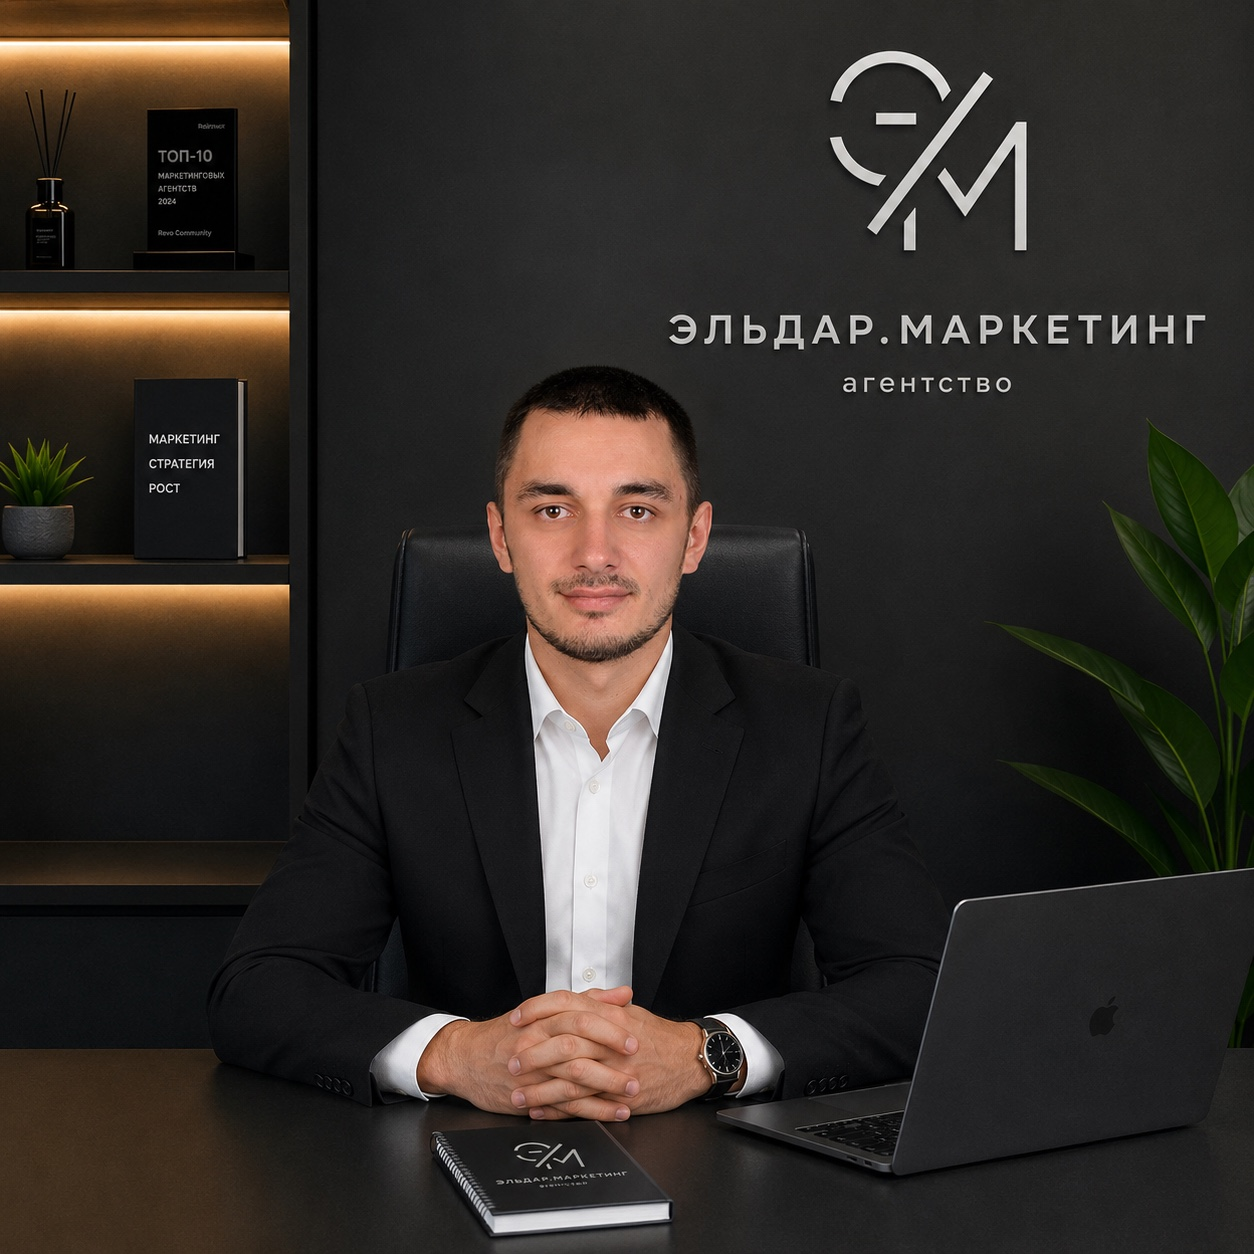
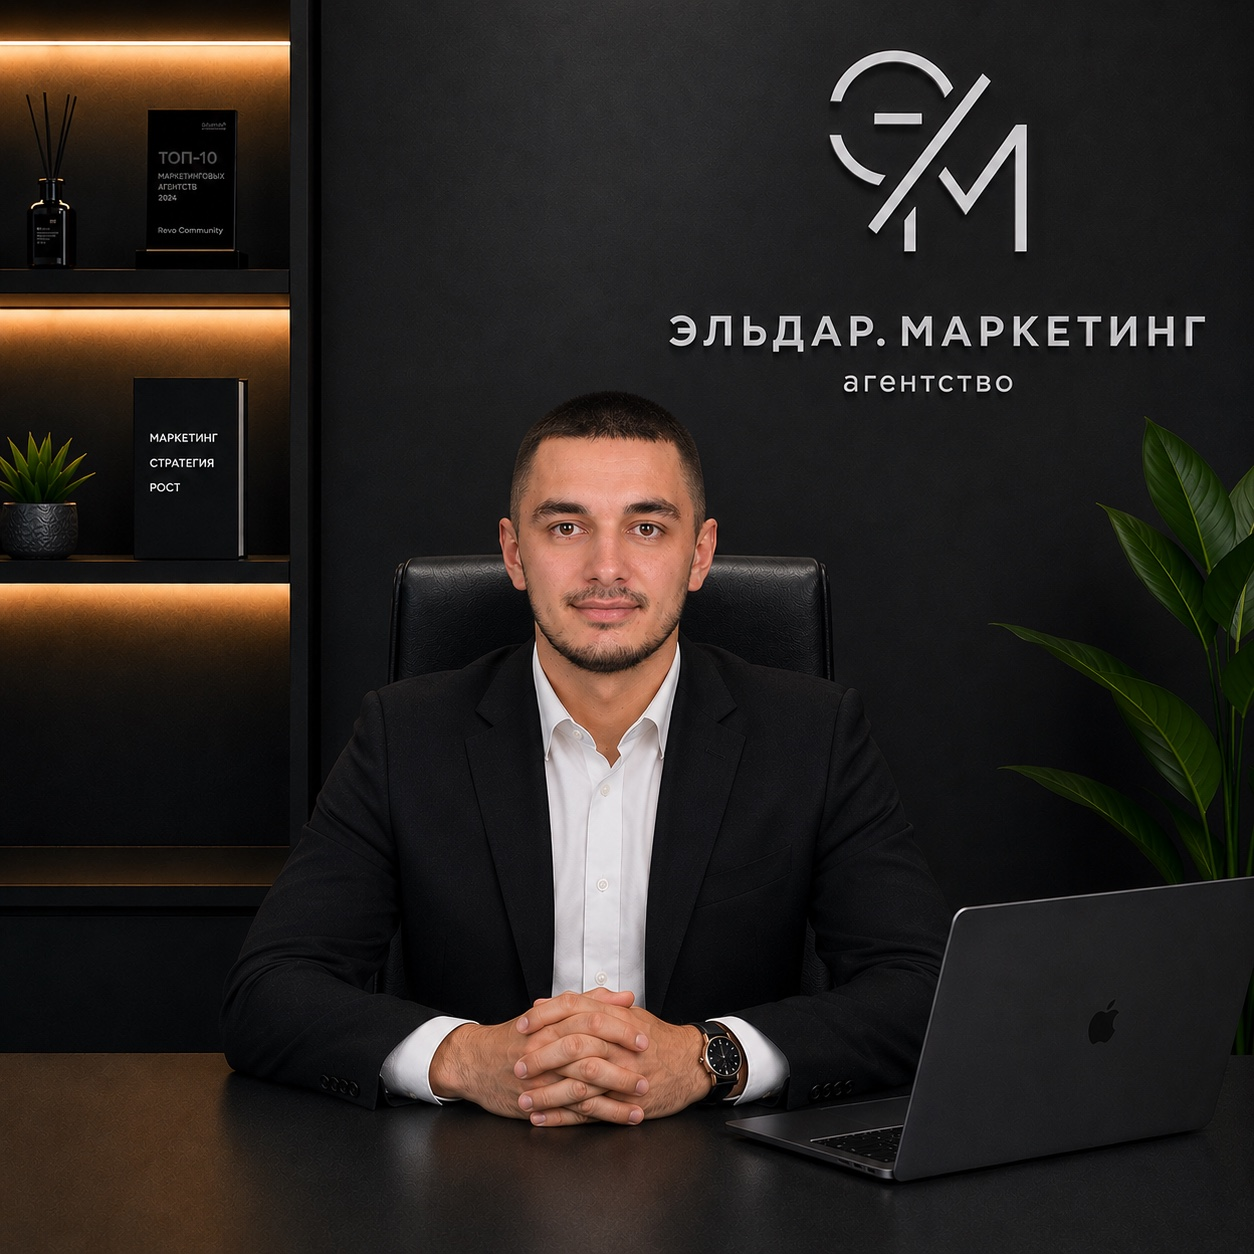
feat(hero): новое фото + тонкий gradient overlay (vignette + bottom shade)

diff --git a/themes/minimal/static/css/style.css b/themes/minimal/static/css/style.css
@@ -740,6 +740,18 @@ html.menu-open, html.menu-open body { overflow: hidden; }
 
 html.dark .hero__photo-frame { box-shadow: 0 30px 80px -30px rgba(0,0,0,0.6); }
 
+.hero__photo-frame::after {
+    content: '';
+    position: absolute;
+    inset: 0;
+    background:
+        linear-gradient(180deg, rgba(0,0,0,0) 60%, rgba(0,0,0,0.18) 100%),
+        radial-gradient(ellipse at center, rgba(0,0,0,0) 50%, rgba(0,0,0,0.15) 100%);
+    pointer-events: none;
+    mix-blend-mode: multiply;
+    z-index: 1;
+}
+
 .hero__photo-frame img {
     width: 100%;
     height: 100%;
@@ -764,6 +776,7 @@ html.dark .hero__photo-frame img { filter: brightness(0.9); }
     gap: var(--s-1);
     border: 1px solid var(--line);
     box-shadow: 0 4px 16px rgba(0,0,0,0.06);
+    z-index: 2;
 }
 
 .hero__photo-badge-dot {